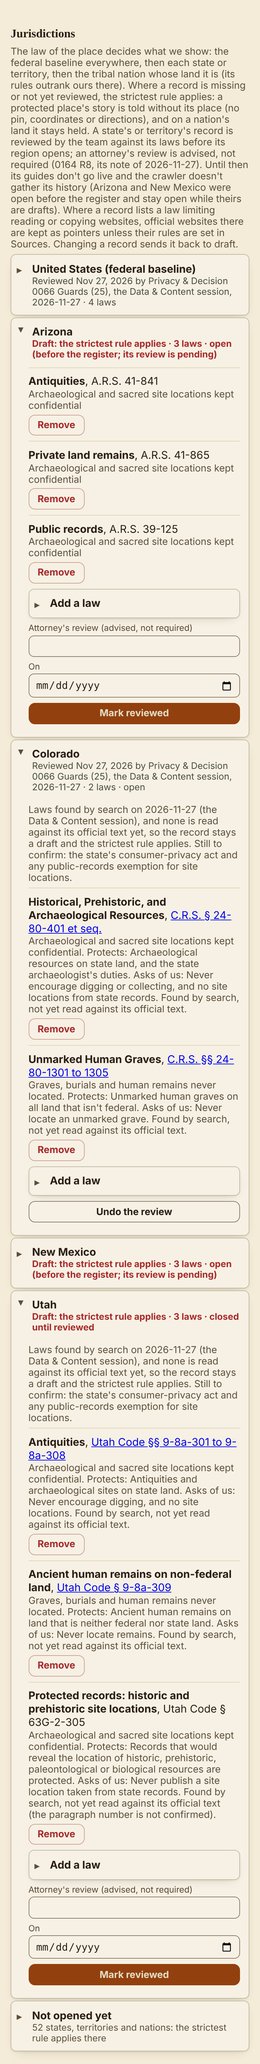
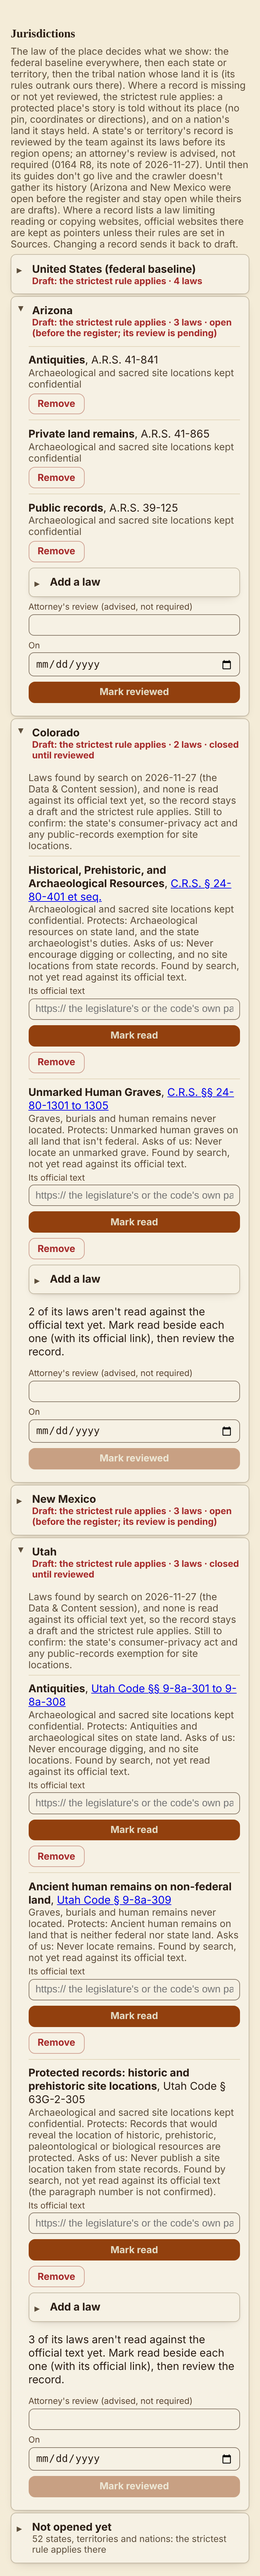
J1: no review while a law is unread (Mark read with its official link); the landmark gate downstream of tier() tested; 31 checks
Claude-Session: https://claude.ai/code/session_01CXLi5jsi4U8fUwJYPkZsMx

Changed region(s): [[0.0308, 0.0, 0.9538, 0.9977]]

diff --git a/tools/jurisdiction-tests/j1.php b/tools/jurisdiction-tests/j1.php
@@ -2,7 +2,8 @@
 // tools/jurisdiction-tests/j1.php — J1 (2026-11-27): a region opens on its team-reviewed jurisdiction record (Jason, R8
 // "advisory, not a mandate"; 0164 R8/R17 note), story only off nation land while a record is under review (Q8 "Show"),
 // and HubOpening's R17 gate reading the reviewed record. On a real MariaDB: php j1.php <lib dir> <migration.sql>
-// (<lib dir>: the build's app/lib with the live Database.php and ControlLog.php beside it). It drops and remakes its tables.
+// (<lib dir>: a copy of the live sync-app/lib with the build's Jurisdictions.php and HubOpening.php laid over). It drops and
+// remakes its tables. Also: the reading rule (no review while a law is unread) and the landmark gate downstream of tier().
 declare(strict_types=1);
 [$lib, $mig] = [$argv[1] ?? '', $argv[2] ?? ''];
 require_once $lib . '/Jurisdictions.php'; require_once $lib . '/HubOpening.php';
@@ -42,14 +43,23 @@ $t('tier: not sensitive is public', Jurisdictions::tier($pdo, false, 'UT') === '
 // review by a team role, no attorney
 $role = 'Privacy & Decision 0066 Guards (25), the Data & Content session, 2026-11-27';
 $t('review needs a person or a role', str_contains($throws(fn () => Jurisdictions::review($pdo, 'US-CO', 0)), 'Who reviewed it'));
-$t('a role reviews Colorado with no attorney', $throws(fn () => Jurisdictions::review($pdo, 'US-CO', 0, '', '', $role)) === '');
+// the reading rule (CEO's Tier 4, 2026-11-27): no review while a law is unread against its official text
+$t('review refused while a law is unread, naming it', str_contains($m = $throws(fn () => Jurisdictions::review($pdo, 'US-CO', 0, '', '', $role)), 'read against the official text yet') && str_contains($m, 'Mark read') && Jurisdictions::get($pdo, 'US-CO')['status'] === 'draft');
+$t('reviewing NM is refused too (its new burial-site law is unread)', $throws(fn () => Jurisdictions::review($pdo, 'US-NM', 7)) !== '');
+$law = (int) $pdo->query("SELECT id FROM jurisdiction_laws WHERE code = 'US-CO' ORDER BY id LIMIT 1")->fetchColumn();
+$t('Mark read needs the official link', str_contains($throws(fn () => Jurisdictions::readLaw($pdo, $law, 'not a link', 0, $role)), 'official text'));
+foreach (['US-CO', 'US-UT'] as $c) foreach (Jurisdictions::get($pdo, $c)['laws'] as $l) if (Jurisdictions::unread($l)) Jurisdictions::readLaw($pdo, (int) $l['id'], 'https://leg.example.gov/' . $l['id'], 0, $role);
+$l = $pdo->query("SELECT * FROM jurisdiction_laws WHERE id = $law")->fetch(PDO::FETCH_ASSOC);
+$t('a law read: official link kept, the unread words gone, its rule kept, logged', $l['url'] === 'https://leg.example.gov/' . $law && !Jurisdictions::unread($l) && $l['requires_us'] !== '' && (int) $pdo->query("SELECT COUNT(*) FROM control_log WHERE what LIKE '%read against its official text'")->fetchColumn() >= 3);
+$t('reading it twice is refused with why', str_contains($throws(fn () => Jurisdictions::readLaw($pdo, $law, 'https://x.gov', 0, $role)), 'already read'));
+$t('a role reviews Colorado with no attorney, every law read', $throws(fn () => Jurisdictions::review($pdo, 'US-CO', 0, '', '', $role)) === '');
 $t('CO still closed until the federal record is reviewed too', !Jurisdictions::regionOpen($pdo, 'CO'));
 Jurisdictions::review($pdo, 'US', 0, '', '', $role);
 $t('CO opens on the team-reviewed records', Jurisdictions::regionOpen($pdo, 'CO'));
 $j = Jurisdictions::get($pdo, 'US-CO');
 $t('the reviewer shown is the role', Jurisdictions::reviewer($pdo, $j) === $role && $j['signed_by'] === '' && $j['signed_at'] === null);
 $t('a person can still review, with an attorney named', $throws(fn () => Jurisdictions::review($pdo, 'US-UT', 7, 'A. Counsel', '2026-11-27')) === '' && Jurisdictions::get($pdo, 'US-UT')['signed_by'] === 'A. Counsel');
-$t('the review is logged on the board\'s logbook', (int) $pdo->query("SELECT COUNT(*) FROM control_log WHERE proc = 'jur:US-CO'")->fetchColumn() === 1);
+$t('the review is logged on the board\'s logbook', (int) $pdo->query("SELECT COUNT(*) FROM control_log WHERE proc = 'jur:US-CO' AND what LIKE '%marked reviewed%'")->fetchColumn() === 1);
 // R17's gate (HubOpening::lawSigned) reads the reviewed record
 $gate = new ReflectionMethod('HubOpening', 'lawSigned'); $gate->setAccessible(true);
 $t('R17 gate: CO reviewed passes; NM (draft) does not', $gate->invoke(null, $pdo, 'CO') === true && $gate->invoke(null, $pdo, 'NM') === false);
@@ -64,4 +74,13 @@ Jurisdictions::review($pdo, 'US-CO', 0, '', '', $role);
 Jurisdictions::addLaw($pdo, 'US-CO', ['name' => 'Colorado Privacy Act', 'effect' => 'privacy', 'citation' => 'C.R.S. 6-1-1301'], 7);
 $j = Jurisdictions::get($pdo, 'US-CO');
 $t('a law added sends the record back to draft, reviewer cleared', $j['status'] === 'draft' && $j['reviewed_as'] === '');
+// downstream (CEO's Tier 4): whatever tier() returns, the landmark gate still holds a sensitive place no public source presents
+if (is_file($lib . '/Landmarks.php')) {
+    require_once $lib . '/Landmarks.php';
+    $none = ['name' => 'Sacred Spring', 'wd_desc' => '', 'wiki_title' => '', 'extract' => '', 'nation' => '', 'fclass' => 'Spring'];
+    $t('a sensitive place with no public source is held (Landmarks::decide), story tier or not', Jurisdictions::tier($pdo, true, 'CO') === 'story' && !Landmarks::publiclyKnown($none) && Landmarks::decide($none)[0] === 'waiting');
+    $ruin = ['name' => 'Cliff Ruins', 'wd_desc' => '', 'wiki_title' => '', 'extract' => '', 'nation' => '', 'fclass' => 'Area'];
+    $t('a ruin with no article and no visitor page is held too', Landmarks::decide($ruin)[0] === 'waiting');
+    $t('on a nation\'s land, held even with an article', Landmarks::decide(['name' => 'Cliff Ruins', 'wiki_title' => 'Cliff Ruins', 'nation' => 'Zuni', 'fclass' => 'Area'])[0] === 'waiting');
+} else $t('Landmarks.php beside the lib (copy the live one)', false);
 echo "\n$ok passed, $bad failed\n"; exit($bad ? 1 : 0);

diff --git a/handoffs/j1-jurisdictions/build/app/admin/sections.php b/handoffs/j1-jurisdictions/build/app/admin/sections.php
@@ -426,6 +426,7 @@ function tv_admin_mod_jurisdictions(PDO $pdo): string
                 case 'law': Jurisdictions::addLaw($pdo, $code, $_POST, $uid); $done = 'Law added. The record goes back to draft until it is reviewed again.'; break;
                 case 'unlaw': Jurisdictions::removeLaw($pdo, (int) ($_POST['law'] ?? 0)); $done = 'Law removed. The record goes back to draft.'; break;
                 case 'review': Jurisdictions::review($pdo, $code, $uid, (string) ($_POST['attorney'] ?? ''), (string) ($_POST['signed_at'] ?? '')); $done = 'Marked reviewed: its rules apply as written.'; break;
+                case 'readlaw': Jurisdictions::readLaw($pdo, (int) ($_POST['law'] ?? 0), (string) ($_POST['url'] ?? ''), $uid); $done = 'Marked read against its official text. Review the record when every law is read.'; break;
                 case 'unreview': Jurisdictions::undoReview($pdo, $code, $uid); $done = 'Review undone: the record is a draft again, and the strictest rule applies.'; break;
                 default: $done = '';
             }
@@ -446,6 +447,7 @@ function tv_admin_mod_jurisdictions(PDO $pdo): string
         foreach ($j['laws'] as $l) {
             $body .= '<div class="ak-law"><p><b>' . $e($l['name']) . '</b>' . ($l['citation'] !== '' ? ', ' . ($l['url'] !== '' ? '<a class="underline" href="' . $e($l['url']) . '" target="_blank" rel="noopener">' . $e($l['citation']) . '</a>' : $e($l['citation'])) : '') . '</p>'
                 . '<p class="ak-note">' . $e(Jurisdictions::EFFECTS[$l['effect']] ?? $l['effect']) . ($l['protects'] !== '' ? '. Protects: ' . $e($l['protects']) : '') . ($l['requires_us'] !== '' ? ' Asks of us: ' . $e($l['requires_us']) : '') . '</p>'
+                . (Jurisdictions::unread($l) ? '<form method="post" class="ak-jf">' . $hid('readlaw', $code) . '<input type="hidden" name="law" value="' . (int) $l['id'] . '"><label>Its official text<input class="ak-in" name="url" required placeholder="https:// the legislature\'s or the code\'s own page"></label><button class="ak-b go"' . $dis . '>Mark read</button></form>' : '')
                 . '<form method="post">' . $hid('unlaw', $code) . '<input type="hidden" name="law" value="' . (int) $l['id'] . '"><button class="ak-b no"' . $dis . ' data-confirm="Remove this law from the record?" data-yes="Remove" data-danger>Remove</button></form></div>';
         }
         $eff = ''; foreach (Jurisdictions::EFFECTS as $k => $v) $eff .= '<option value="' . $k . '">' . $e($v) . '</option>';
@@ -454,9 +456,12 @@ function tv_admin_mod_jurisdictions(PDO $pdo): string
             . '<label>What it does to what we show<select class="ak-in" name="effect">' . $eff . '</select></label><label>Link<input class="ak-in" name="url" placeholder="https://"></label>'
             . '<label class="w">What it protects<input class="ak-in" name="protects"></label><label class="w">What it asks of us<input class="ak-in" name="requires_us"></label>'
             . '<button class="ak-b go"' . $dis . '>Add</button></form>', false);
+        $unread = count(array_filter($j['laws'], [Jurisdictions::class, 'unread']));
+        $rdis = $unread ? ' disabled title="' . $unread . ' law' . ($unread === 1 ? ' isn\'t' : 's aren\'t') . ' read against the official text yet: Mark read beside each one first"' : $dis;
+        if ($j['status'] !== 'reviewed' && $unread) $body .= '<p data-tv-status="info" data-tv-label="Waiting:">' . $unread . ' of its laws ' . ($unread === 1 ? 'isn\'t' : 'aren\'t') . ' read against the official text yet. Mark read beside each one (with its official link), then review the record.</p>';
         if ($j['status'] !== 'reviewed') $body .= '<form method="post" class="ak-jf">' . $hid('review', $code)
             . ($level !== 'nation' ? '<label>Attorney\'s review (advised, not required)<input class="ak-in" name="attorney" data-spell value="' . $e((string) $j['signed_by']) . '"></label><label>On<input class="ak-in" type="date" name="signed_at"></label>' : '')
-            . '<button class="ak-b go"' . $dis . ' data-confirm="Mark ' . $e($name) . '\'s record reviewed? Its rules then apply as written." data-yes="Mark reviewed">Mark reviewed</button></form>';
+            . '<button class="ak-b go"' . $rdis . ' data-confirm="Mark ' . $e($name) . '\'s record reviewed? Its rules then apply as written." data-yes="Mark reviewed">Mark reviewed</button></form>';
         else $body .= '<form method="post" class="ak-jf">' . $hid('unreview', $code)
             . '<button class="ak-b"' . $dis . ' data-confirm="Undo the review of ' . $e($name) . '\'s record? It goes back to draft and the strictest rule applies until it\'s reviewed again." data-yes="Undo the review" data-danger>Undo the review</button></form>';
         $h .= tv_admin_fold($name, $status, $j['status'] === 'reviewed' ? 'ok' : 'bad', '', $body, false);

diff --git a/handoffs/j1-jurisdictions/build/app/lib/Jurisdictions.php b/handoffs/j1-jurisdictions/build/app/lib/Jurisdictions.php
@@ -179,11 +179,39 @@ final class Jurisdictions
         if (!$j['laws'] && $j['level'] !== 'nation') throw new InvalidArgumentException('Add its laws first.');
         $attorney = trim($attorney); $as = mb_substr(trim($as), 0, 160);
         if ($uid <= 0 && $as === '') throw new InvalidArgumentException('Who reviewed it? A person signed in, or a team role.');
+        $unread = array_filter($j['laws'], [self::class, 'unread']);
+        if ($unread) throw new InvalidArgumentException(count($unread) . ' of its laws ' . (count($unread) === 1 ? 'isn\'t' : 'aren\'t') . ' read against the official text yet (' . implode(', ', array_map(fn ($l) => (string) $l['name'], $unread)) . '). Read each one and press Mark read beside it, with its official link, then review.');
         $d = $date !== '' ? date('Y-m-d', strtotime($date) ?: time()) : date('Y-m-d');
         $pdo->prepare("UPDATE jurisdictions SET status = 'reviewed', reviewed_by = ?, reviewed_as = ?, reviewed_at = NOW(), signed_by = IF(? <> '', ?, signed_by), signed_at = IF(? <> '', ?, signed_at) WHERE code = ?")
             ->execute([$uid > 0 ? $uid : null, $as, $attorney, mb_substr($attorney, 0, 160), $attorney, $d, $code]);
         require_once __DIR__ . '/ControlLog.php';
         ControlLog::add($pdo, 'control', 'jur:' . $code, (string) $j['name'] . '\'s jurisdiction record marked reviewed' . ($attorney !== '' ? ' (attorney: ' . $attorney . ')' : ''), $as !== '' ? $as : self::personName($pdo, $uid));
+    }
+
+    /** A law found by search and not yet read against its official text (the session manager's reading rule, J1, 2026-11-27). */
+    public const UNREAD = 'not yet read against its official text';
+    public static function unread(array $l): bool
+    {
+        return stripos((string) ($l['requires_us'] ?? ''), self::UNREAD) !== false;
+    }
+
+    /**
+     * A law read against its official text: its link becomes the official one and the "not yet read" words come off. The
+     * record goes back to draft (a changed record is reviewed again); logged with who read it (a person, or a team role).
+     */
+    public static function readLaw(PDO $pdo, int $id, string $url, int $uid, string $as = ''): void
+    {
+        $st = $pdo->prepare('SELECT * FROM jurisdiction_laws WHERE id = ?'); $st->execute([$id]);
+        $l = $st->fetch(PDO::FETCH_ASSOC) ?: throw new InvalidArgumentException('That law isn\'t on the record.');
+        if (!self::unread($l)) throw new InvalidArgumentException('It\'s already read against its official text.');
+        $url = trim($url); $as = mb_substr(trim($as), 0, 160);
+        if (!preg_match('#^https?://\S+$#i', $url)) throw new InvalidArgumentException('Add the link to its official text (the legislature\'s or the code\'s own page).');
+        if ($uid <= 0 && $as === '') throw new InvalidArgumentException('Who read it? A person signed in, or a team role.');
+        $req = trim((string) preg_replace('/\s*Found by search,\s*' . preg_quote(self::UNREAD, '/') . '\.?/i', '', (string) $l['requires_us']));
+        $pdo->prepare('UPDATE jurisdiction_laws SET url = ?, requires_us = ? WHERE id = ?')->execute([mb_substr($url, 0, 500), mb_substr($req, 0, 500), $id]);
+        self::reopen($pdo, (string) $l['code']);
+        require_once __DIR__ . '/ControlLog.php';
+        ControlLog::add($pdo, 'control', 'jur:' . $l['code'], (string) $l['name'] . ' read against its official text', $as !== '' ? $as : self::personName($pdo, $uid), 'was ' . ($l['url'] !== '' ? $l['url'] : 'no link'));
     }
 
     /** Undo a review: the record goes back to draft as if it was never reviewed (the strictest rule applies again). */

diff --git a/handoffs/j1-jurisdictions/README.md b/handoffs/j1-jurisdictions/README.md
@@ -1,17 +1,22 @@
-# J1: jurisdictions reviewed by the team (work in progress, not sent)
+# J1: jurisdictions reviewed by the team (built, not sent)
 
-Data & Content session, 2026-11-27. Built on the live mirror at Sync 2026-11-27 02:27 UTC (`31261dc`). Sources: Jason's R8
-ruling (2026-11-27, "advisory, not a mandate"; 0164 R8/R17 note, PR #1492), Q8 "Show" (PR #1508), the session manager's
-plan review (J1 → review → G1 → R-D1 → J1b; OPENED kept until each state is reviewed).
+Data & Content session, 2026-11-27. Built on the live mirror at Sync 2026-11-27 02:50 UTC; `faq.md` and `sections.php` are
+rebuilt on the sync after R2 (#317) and B.2 step 1 before zipping (the session manager's order OK, its slot). Sources:
+Jason's R8 ruling (2026-11-27, "advisory, not a mandate"; 0164 R8/R17 note, PR #1492), Q8 "Show" (PR #1508), the session
+manager's ruling (option b: OPENED kept, drafts that say "Found by search, not yet read against its official text").
 
-Done in `build/app/lib/Jurisdictions.php`: `review()` takes a team role (`reviewed_as`) and the attorney is optional;
-`undoReview()` back to draft, logged; `reviewer()`; words follow the ruling. Copied, not yet changed: `HubOpening.php`
-(`lawSigned()` compares `UPPER(code)` with 'AZ' though codes are 'US-AZ', so R17's gate never passes: fix to read the
-reviewed record), `sections.php` (the Jurisdictions page), `faq.md`.
+In `build/`:
+- `app/lib/Jurisdictions.php`: `review()` by a person or a team role (`reviewed_as`), attorney optional, refused while
+  any law is unread (the CEO's Tier 4 fix); `readLaw()` (the official link, the unread words off, logged, back to draft);
+  `undoReview()`; `reviewer()`; `tier()` per Q8.
+- `app/lib/HubOpening.php`: `lawSigned()` reads the reviewed US and US-<state> records (it compared 'AZ' with 'US-AZ').
+- `app/admin/sections.php`: the Jurisdictions page: Mark read beside each unread law, Mark reviewed greyed with why
+  until all are read, the attorney's review optional, Undo the review.
+- `app/migrations/2026-11-27_jurisdictions_team_review.sql`, `app/ui/faq.md`, `release.json`.
 
-Still to do: the migration (the `reviewed_as` column, US-CO and US-UT opened, each law with citation and official link),
-the page's words and Undo, tests on MariaDB, the CEO's Tier 4 check, the release summary to the session manager.
+Tests: `tools/jurisdiction-tests/j1.php`, 31 checks on MariaDB (with the landmark gate downstream of `tier()`). Screens:
+`screens/jurisdictions-1280.png`, `-390.png`. Tier 4 review: CEO, 2026-11-27, Prior Ruling Check yes (0164 R8 note, Q8;
+R17 repair). Design reviewer: asked.
 
-**Blocked:** every law must be read against its official text before a record is written reviewed (the session
-manager's rule), and this environment refuses the statute hosts (uscode.house.gov, www.azleg.gov, nmonesource.com,
-leg.colorado.gov, le.utah.gov, www.govinfo.gov). Until they're allowed, the records stay drafts.
+Reading the laws (the follow-up release, by role 25) waits for the statute hosts: uscode.house.gov, www.azleg.gov,
+nmonesource.com, leg.colorado.gov, le.utah.gov, www.govinfo.gov. Until then the records stay drafts, which is safe.
